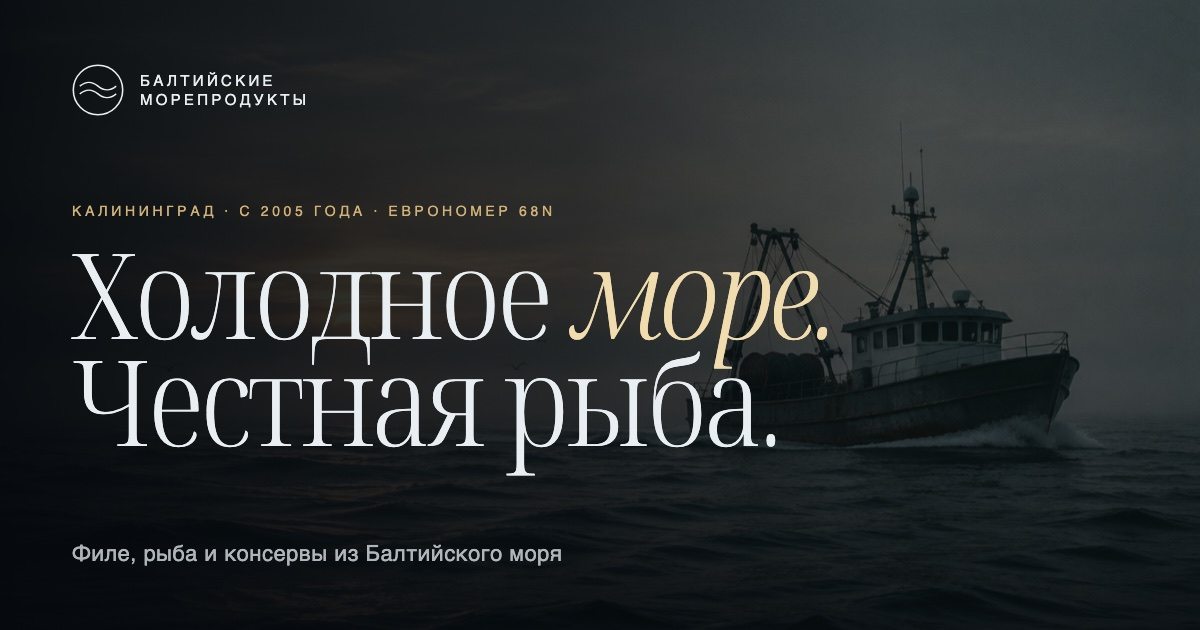
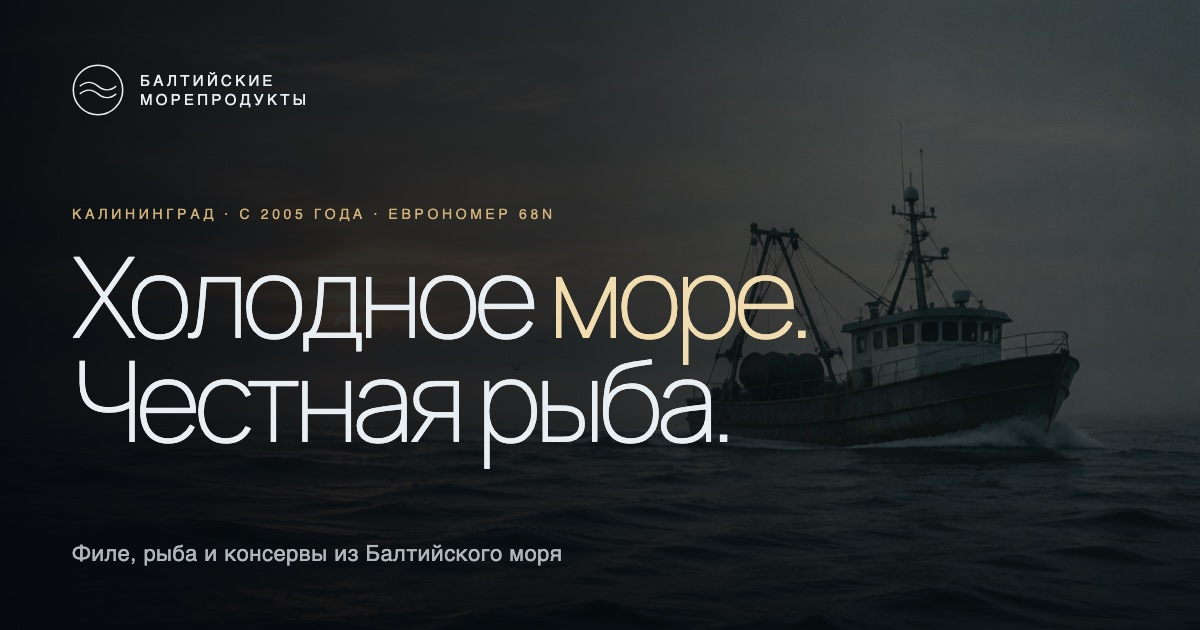
Шрифт заголовков Baltic Grotesk (вариант F из лаборатории)

Changed region(s): [[0.0617, 0.3921, 0.7092, 0.754], [0.0617, 0.3317, 0.4625, 0.3619]]

diff --git a/404.html b/404.html
@@ -11,8 +11,7 @@
 <link href="https://fonts.googleapis.com/css2?family=Manrope:wght@300;400;500&display=swap" rel="stylesheet">
 <script src="https://cdnjs.cloudflare.com/ajax/libs/gsap/3.12.5/gsap.min.js"></script>
 <style>
-@font-face { font-family: 'Baltic Display'; font-weight: 300; src: url('fonts/BalticDisplay-Light.woff2') format('woff2'); }
-@font-face { font-family: 'Baltic Display'; font-weight: 300; font-style: italic; src: url('fonts/BalticDisplay-LightItalic.woff2') format('woff2'); }
+@font-face { font-family: 'Baltic Grotesk'; font-weight: 100 300; src: url('fonts/BalticGrotesk-ExtraLight.woff2') format('woff2'); }
 :root { --ink: #04080c; --text: #e8eef1; --muted: rgba(232,238,241,.6); --gold: #d2b278; --gold-2: #f0dcae; --ease: cubic-bezier(.16,1,.3,1); }
 * { box-sizing: border-box; margin: 0; padding: 0; }
 html, body { height: 100%; }
@@ -46,7 +45,7 @@ canvas#snow { position: fixed; inset: 0; width: 100%; height: 100%; }
 
 /* 404 */
 .num { position: fixed; left: 50%; top: 44%; transform: translate(-50%, -50%); z-index: 1; white-space: nowrap;
-  font-family: 'Baltic Display', serif; font-weight: 300; font-size: clamp(220px, 38vw, 720px); line-height: .8; letter-spacing: -.04em;
+  font-family: 'Baltic Grotesk', sans-serif; font-weight: 200; font-size: clamp(220px, 38vw, 720px); line-height: .8; letter-spacing: -.07em;
   color: transparent; -webkit-text-stroke: 1px rgba(240,220,174,.55);
   background: linear-gradient(115deg, rgba(240,220,174,0) 20%, rgba(240,220,174,.22) 40%, rgba(160,220,235,.12) 50%, rgba(240,220,174,0) 65%);
   background-size: 250% 100%; -webkit-background-clip: text; background-clip: text; animation: shimmer 7s ease-in-out infinite; user-select: none; }
@@ -64,8 +63,8 @@ canvas#snow { position: fixed; inset: 0; width: 100%; height: 100%; }
 /* текст */
 .copy { position: fixed; left: 0; right: 0; bottom: 9vh; z-index: 3; display: grid; grid-template-columns: 1.2fr 1fr; gap: 5vw; align-items: end; padding: 0 clamp(20px,4vw,64px); }
 .kicker { font-size: 12px; letter-spacing: .24em; text-transform: uppercase; color: var(--gold); margin-bottom: 22px; }
-h1 { font-family: 'Baltic Display', serif; font-weight: 300; font-size: clamp(48px, 6.4vw, 118px); line-height: .9; letter-spacing: -.02em; }
-h1 em { color: var(--gold-2); font-style: italic; }
+h1 { font-family: 'Baltic Grotesk', sans-serif; font-weight: 200; font-size: clamp(48px, 6.4vw, 118px); line-height: .92; letter-spacing: -.055em; }
+h1 em { color: var(--gold-2); font-style: normal; }
 .mask { display: block; overflow: hidden; padding-bottom: .06em; margin-bottom: -.06em; }
 .mask > span { display: inline-block; }
 .text { color: var(--muted); font-size: 15px; line-height: 1.6; max-width: 420px; margin-bottom: 32px; }
@@ -153,9 +152,9 @@ h1 em { color: var(--gold-2); font-style: italic; }
 <div class="depth" aria-hidden="true"><span class="v" data-i18n="depth.label">Глубина</span><div class="bar"><i></i></div><b><span id="d">0</span> <span data-i18n="depth.unit">м</span></b></div>
 
 <script type="module">
-import { applyI18n, LANG } from './i18n.js?v=1794924554';
-import { setupHookCursor } from './cursor.js?v=1794924554';
-import { setupTransitions } from './transition.js?v=1794924554';
+import { applyI18n, LANG } from './i18n.js?v=1794924754';
+import { setupHookCursor } from './cursor.js?v=1794924754';
+import { setupTransitions } from './transition.js?v=1794924754';
 applyI18n();
 document.querySelectorAll('.lang a').forEach((a) => { a.href = `index.html?lang=${a.dataset.lang}`; });
 setupHookCursor();

diff --git a/style.css b/style.css
@@ -1,8 +1,7 @@
-/* Baltic Display — собственная гарнитура заголовков (на основе Noto Serif Display, SIL OFL 1.1, см. fonts/OFL.txt) */
-@font-face { font-family: 'Baltic Display'; font-weight: 300; font-style: normal; font-display: swap; src: url('fonts/BalticDisplay-Light.woff2') format('woff2'); }
-@font-face { font-family: 'Baltic Display'; font-weight: 300; font-style: italic; font-display: swap; src: url('fonts/BalticDisplay-LightItalic.woff2') format('woff2'); }
-@font-face { font-family: 'Baltic Display Wave'; font-weight: 300; font-style: normal; font-display: swap; src: url('fonts/BalticDisplayWave-Light.woff2') format('woff2'); }
-@font-face { font-family: 'Baltic Display Wave'; font-weight: 300; font-style: italic; font-display: swap; src: url('fonts/BalticDisplayWave-LightItalic.woff2') format('woff2'); }
+/* Baltic Grotesk — фирменная гарнитура заголовков (на основе Manrope, SIL OFL 1.1, см. fonts/OFL.txt).
+   Вес 100–300 → сверхтонкое начертание для крупных заголовков, 400+ → светлое для мелких. */
+@font-face { font-family: 'Baltic Grotesk'; font-weight: 100 300; font-style: normal; font-display: swap; src: url('fonts/BalticGrotesk-ExtraLight.woff2') format('woff2'); }
+@font-face { font-family: 'Baltic Grotesk'; font-weight: 400 700; font-style: normal; font-display: swap; src: url('fonts/BalticGrotesk-Light.woff2') format('woff2'); }
 
 :root {
   --ink: #05090d;
@@ -12,8 +11,8 @@
   --faint: rgba(232, 238, 241, .14);
   --gold: #d2b278;
   --gold-2: #f0dcae;
-  --serif: 'Baltic Display', 'Times New Roman', serif;
-  --display: 'Baltic Display', 'Times New Roman', serif;   /* волна отключена до выбора в лаборатории шрифтов */
+  --serif: 'Baltic Grotesk', 'Manrope', system-ui, sans-serif;
+  --display: 'Baltic Grotesk', 'Manrope', system-ui, sans-serif;
   --sans: 'Manrope', system-ui, sans-serif;
   --pad: clamp(20px, 4vw, 64px);
   --ease: cubic-bezier(.16, 1, .3, 1);
@@ -39,7 +38,7 @@ body.is-loading .scroll-hint, body.is-loading .depth { opacity: 0; }
 #sea { animation: seaIn 1.6s ease both; }
 @keyframes seaIn { from { opacity: 0; } to { opacity: 1; } }
 a { color: inherit; text-decoration: none; }
-em { font-style: italic; color: var(--gold-2); font-weight: 300; }
+em { font-style: normal; color: var(--gold-2); }
 ul, ol { list-style: none; }
 ::selection { background: var(--gold); color: var(--ink); }
 
@@ -645,3 +644,12 @@ html.is-arriving .curtain__mark { opacity: 1; }
 @media (prefers-reduced-motion: reduce) {
   .grain, .scroll-hint i::after, .pt .pt__pulse { animation: none; }
 }
+
+/* ---------- Baltic Grotesk: плотная разрядка крупных заголовков ---------- */
+.hero__title, .title, .film__title, .coast__title, .contact__title, .pslide__title, .pp-title, .pp-next__name,
+.loader__count, .rfq__title, .pp-specs__title { letter-spacing: -.055em; font-weight: 200; }
+.manifesto__text { letter-spacing: -.04em; font-weight: 200; }
+.row__name, .stat__num, .step__n { letter-spacing: -.045em; font-weight: 200; }
+.step h3, .bcard h3, .pp-table dd, .contact__big { font-weight: 400; letter-spacing: -.02em; }
+.bcard__n { font-weight: 200; }
+.hero__title { line-height: .92; }

diff --git a/app.js b/app.js
@@ -1,9 +1,9 @@
 import * as THREE from 'three';
 import { RoomEnvironment } from 'three/addons/environments/RoomEnvironment.js';
-import { applyI18n, T, tr } from './i18n.js?v=1794924554';
-import { setupLiquid } from './liquid.js?v=1794924554';
-import { setupHookCursor } from './cursor.js?v=1794924554';
-import { setupTransitions } from './transition.js?v=1794924554';
+import { applyI18n, T, tr } from './i18n.js?v=1794924754';
+import { setupLiquid } from './liquid.js?v=1794924754';
+import { setupHookCursor } from './cursor.js?v=1794924754';
+import { setupTransitions } from './transition.js?v=1794924754';
 
 applyI18n();
 setupTransitions();
@@ -480,9 +480,9 @@ function drawLabel(p) {
   ctx.font = '500 20px Manrope';
   ctx.fillText(T('КАЛИНИНГРАДСКАЯ ОБЛАСТЬ · С 2005', 'KALININGRAD REGION · SINCE 2005', 'REGION KALININGRAD · SEIT 2005'), W / 2, H - m - 46);
   if ('letterSpacing' in ctx) ctx.letterSpacing = '0px';
-  ctx.font = `italic 300 ${p.l1.length > 8 ? 132 : 168}px "Baltic Display"`;
+  ctx.font = `200 ${p.l1.length > 8 ? 118 : 150}px "Baltic Grotesk"`;
   ctx.fillText(p.l1, W / 2, H / 2 + 34);
-  ctx.font = '300 70px "Baltic Display"';
+  ctx.font = '400 60px "Baltic Grotesk"';
   ctx.fillText(p.l2, W / 2, H / 2 + 118);
   labelTex.needsUpdate = true;
 }
@@ -1144,8 +1144,8 @@ async function boot() {
   // ждём шрифты, но не дольше 1,2 с: экрана загрузки нет, сайт стартует сразу
   await Promise.race([
     Promise.all([
-      document.fonts.load('italic 300 120px "Baltic Display"'),
-      document.fonts.load('300 120px "Baltic Display"'),
+      document.fonts.load('200 120px "Baltic Grotesk"'),
+      document.fonts.load('400 120px "Baltic Grotesk"'),
       document.fonts.load('500 20px Manrope'),
     ]).catch(() => {}),
     new Promise((r) => setTimeout(r, 1200)),

diff --git a/product.html b/product.html
@@ -18,8 +18,8 @@
 <link rel="preconnect" href="https://fonts.googleapis.com">
 <link rel="preconnect" href="https://fonts.gstatic.com" crossorigin>
 <link href="https://fonts.googleapis.com/css2?family=Manrope:wght@300;400;500;600&display=swap" rel="stylesheet">
-<link rel="preload" href="fonts/BalticDisplayWave-Light.woff2" as="font" type="font/woff2" crossorigin>
-<link rel="stylesheet" href="style.css?v=1794924554">
+<link rel="preload" href="fonts/BalticGrotesk-ExtraLight.woff2" as="font" type="font/woff2" crossorigin>
+<link rel="stylesheet" href="style.css?v=1794924754">
 <script src="https://cdnjs.cloudflare.com/ajax/libs/gsap/3.12.5/gsap.min.js"></script>
 <script src="https://cdnjs.cloudflare.com/ajax/libs/gsap/3.12.5/ScrollTrigger.min.js"></script>
 <script src="https://unpkg.com/lenis@1.1.13/dist/lenis.min.js"></script>
@@ -81,6 +81,6 @@
   </div>
 </footer>
 
-<script type="module" src="product.js?v=1794924554"></script>
+<script type="module" src="product.js?v=1794924754"></script>
 </body>
 </html>

diff --git a/index.html b/index.html
@@ -53,8 +53,8 @@
 <link rel="preconnect" href="https://fonts.googleapis.com">
 <link rel="preconnect" href="https://fonts.gstatic.com" crossorigin>
 <link href="https://fonts.googleapis.com/css2?family=Manrope:wght@300;400;500;600&display=swap" rel="stylesheet">
-<link rel="preload" href="fonts/BalticDisplay-Light.woff2" as="font" type="font/woff2" crossorigin>
-<link rel="stylesheet" href="style.css?v=1794924554">
+<link rel="preload" href="fonts/BalticGrotesk-ExtraLight.woff2" as="font" type="font/woff2" crossorigin>
+<link rel="stylesheet" href="style.css?v=1794924754">
 <script type="importmap">
 { "imports": {
   "three": "https://cdn.jsdelivr.net/npm/three@0.160.0/build/three.module.js",
@@ -376,6 +376,6 @@
   </div>
 </footer>
 
-<script type="module" src="app.js?v=1794924554"></script>
+<script type="module" src="app.js?v=1794924754"></script>
 </body>
 </html>

diff --git a/product.js b/product.js
@@ -1,7 +1,7 @@
-import { applyI18n, LI, tr, PRODUCT_LIST } from './i18n.js?v=1794924554';
-import { setupLiquid } from './liquid.js?v=1794924554';
-import { setupHookCursor } from './cursor.js?v=1794924554';
-import { setupTransitions } from './transition.js?v=1794924554';
+import { applyI18n, LI, tr, PRODUCT_LIST } from './i18n.js?v=1794924754';
+import { setupLiquid } from './liquid.js?v=1794924754';
+import { setupHookCursor } from './cursor.js?v=1794924754';
+import { setupTransitions } from './transition.js?v=1794924754';
 
 /* =========================================================
    Страница продукта (заглушка): данные из PRODUCT_LIST
